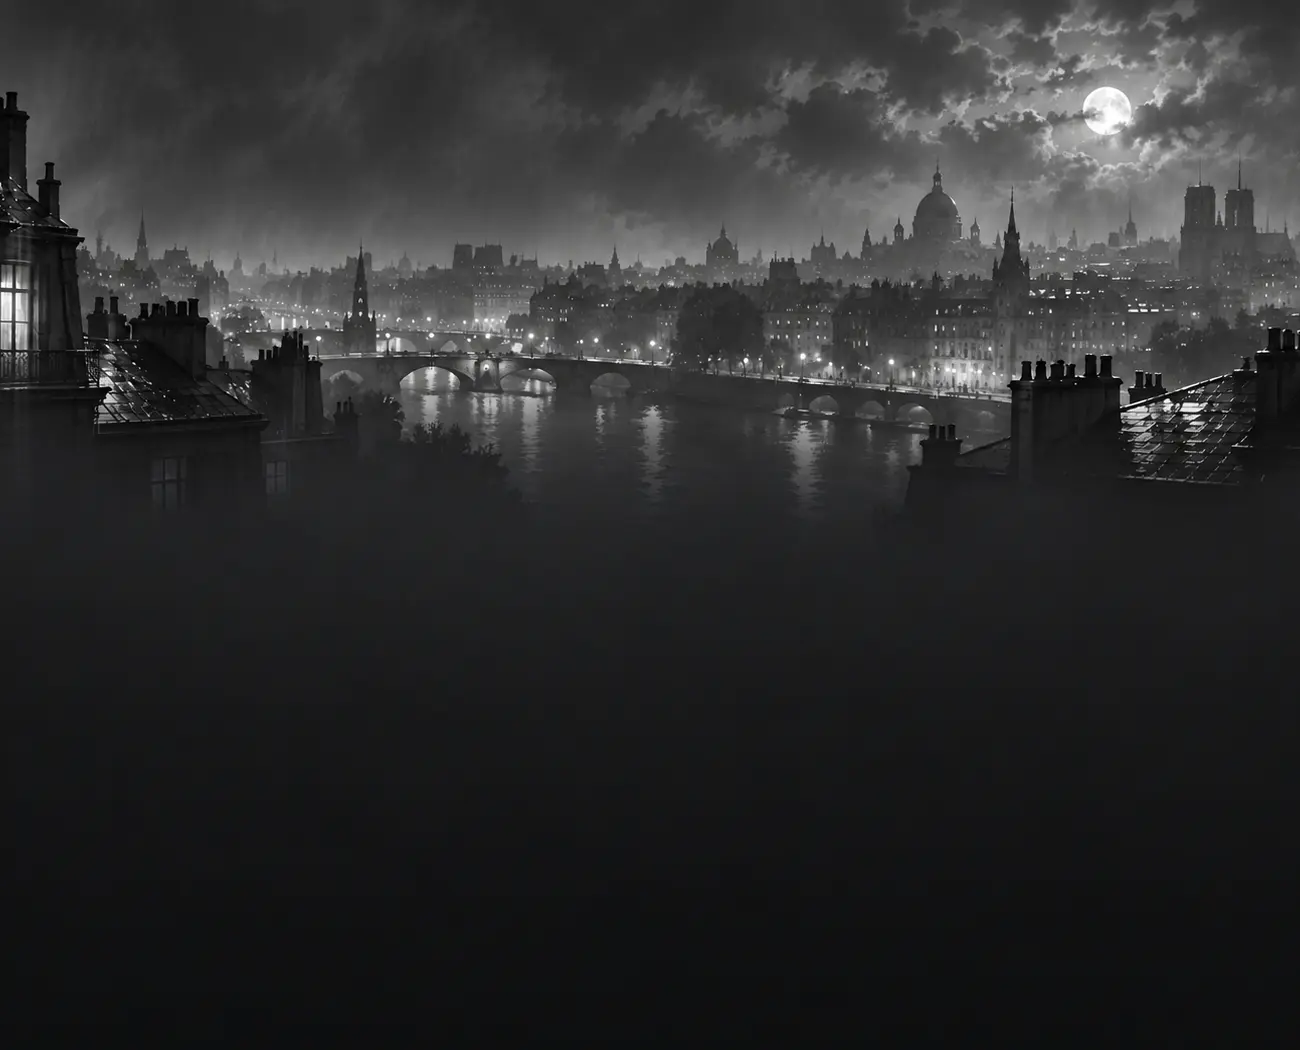
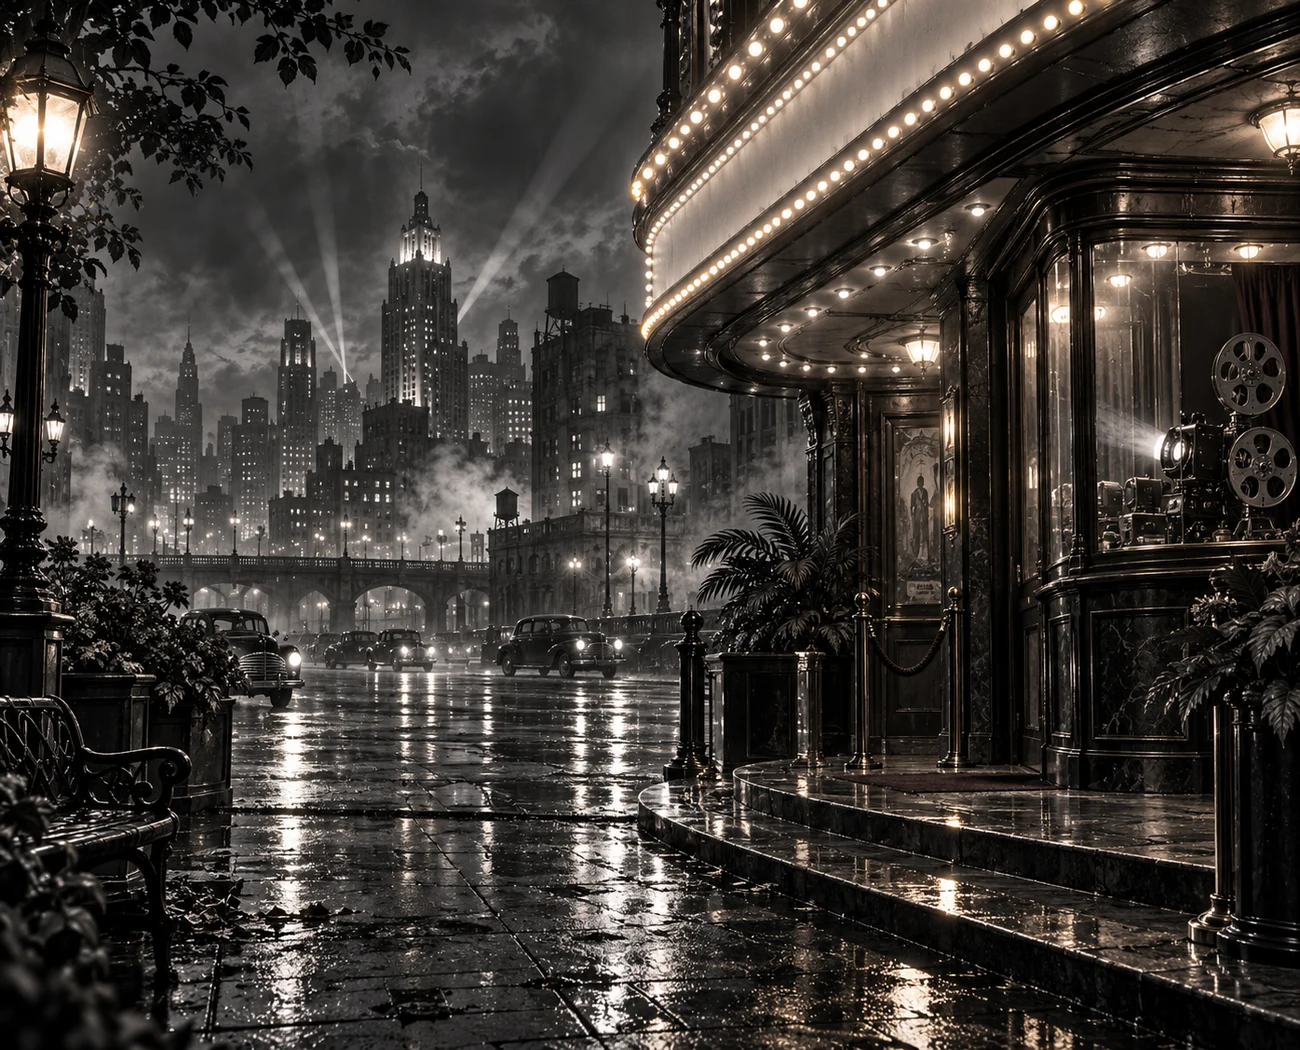
assets: remaster twelve backgrounds preceding Last Train

diff --git a/assets/background-remaster/README.md b/assets/background-remaster/README.md
@@ -1,0 +1,20 @@
+# 早期主题背景重绘
+
+2026-10-13 · imagegen 内置生图。范围由主题目录中末班列车之前的 12 项确定。成品为 1300×1050 WebP，保留原主题 ID 与入口；不含文字、人物和界面。
+
+共同构图要求：高细节环境插画，完整前景／中景／远景，场景细节保留到画面下部；主景偏右，左侧文字区降低对比；只在底部自然收暗，禁止用纯色代替下半场景。
+
+- 旧档案：雨窗、木制档案柜、阶梯书架、黄铜灯、封缄文件和桌面。
+- 霓虹夜：紫粉雨夜运河、高架列车、桥梁、湿润步道和倒影，避免绿光。
+- 纸与墨：象牙白书房、纸张、墨水、书籍、薄纱和暖光。
+- 黑白电影：黑白旧电影院、胶片放映机、灯泡雨棚、旧城与雨路。
+- 林间信：林间信箱、溪流、苔石路、野花、飘带和信封。
+- 锦书古风：书斋、园林、月洞门、莲池、雕木窗和锦缎。
+- 星海航图：星穹观测台、黄铜浑天仪、星图桌和望远镜。
+- 绯色契约：玫瑰古堡、酒红绒幕、烛台、信笺和石地倒影。
+- 末日警报：破损应急站、物资箱、路障、废城与警戒灯。
+- 深海回响：水下观测厅、玻璃拱窗、沉没遗迹、水生植物与鳐鱼远影。
+- 琥珀沙海：沙漠宫廷、砂岩拱门、铜灯、丝篷和几何地砖。
+- 月光剧场：蓝绒帷幕、金雕包厢、晶灯、月景舞台和木地板。
+
+manifest.json 记录发布的 Git blob，用于验证固定素材与工作树一致。
